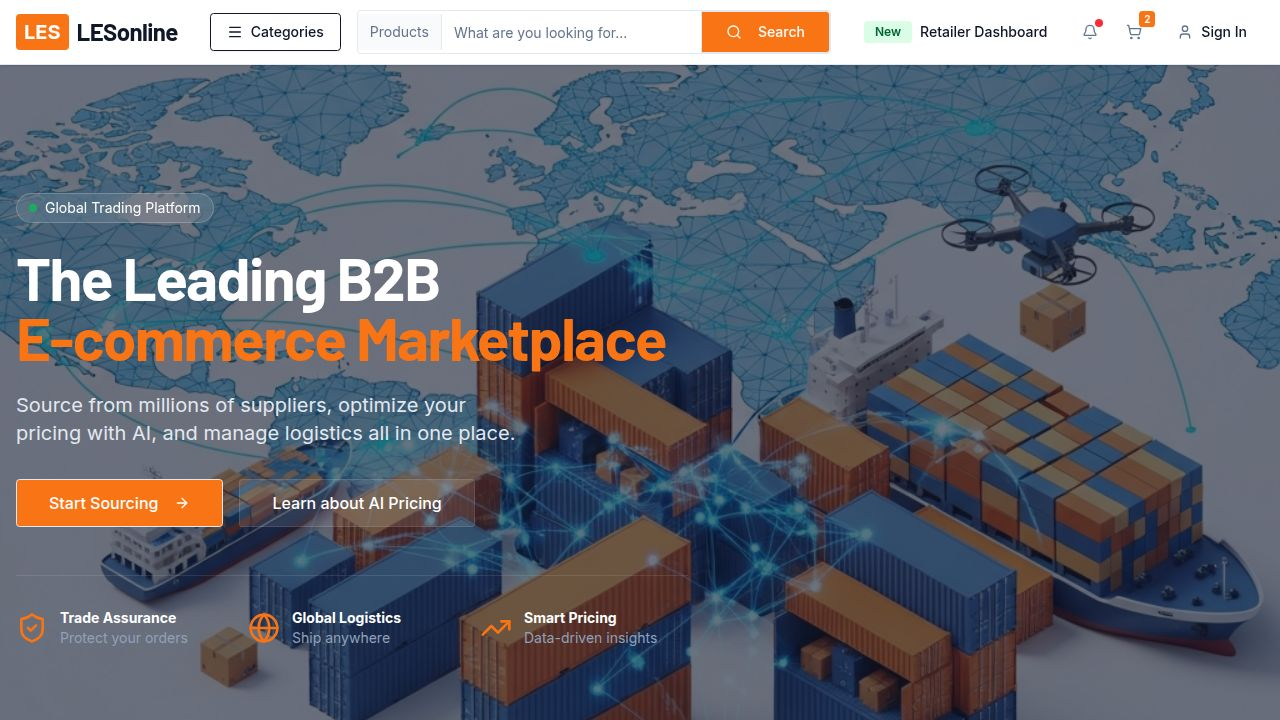
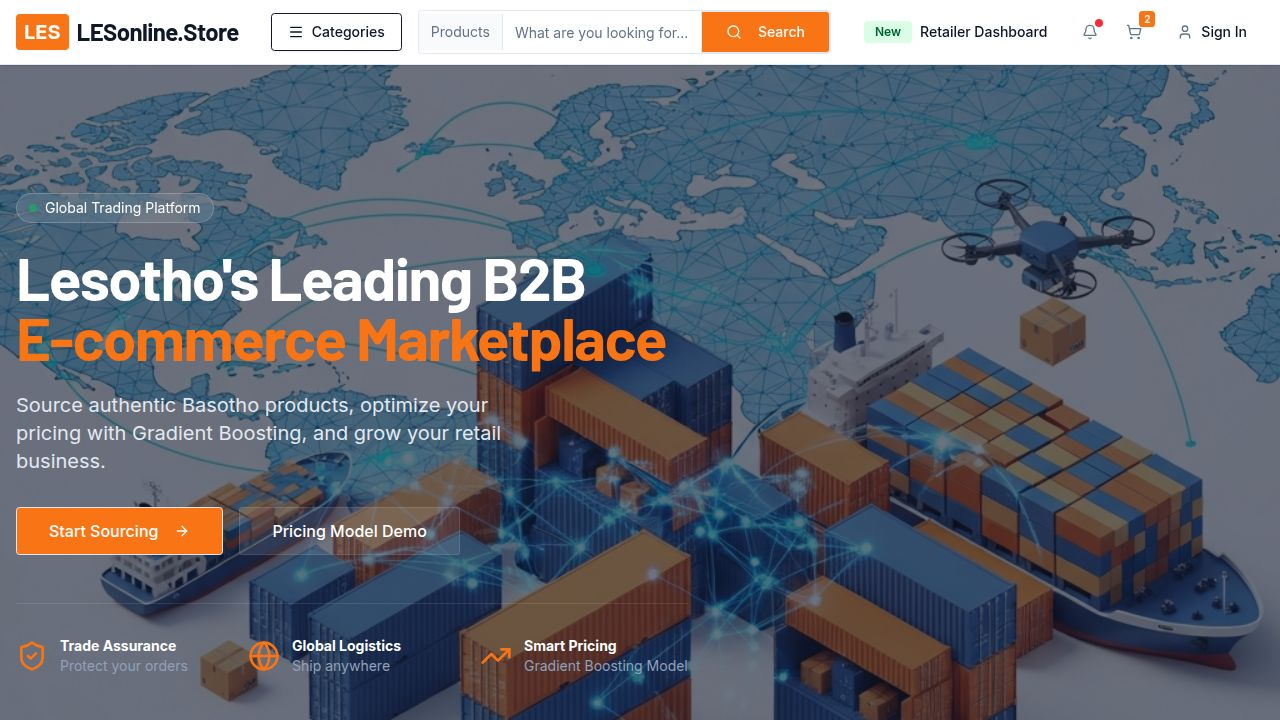
Rebrand platform to LESonline.Store and localize for Lesotho
Updates include changing currency to LSL (Maloti), localizing product catalog, and rebranding all references from "Alibaba Clone" to "LESonline.Store" to reflect the project's new focus.

Replit-Commit-Author: Agent
Replit-Commit-Session-Id: 9b57191a-77c6-4d40-badc-9a559e316d22
Replit-Commit-Checkpoint-Type: full_checkpoint
Replit-Commit-Event-Id: 57975063-6331-49f8-88c5-702df0c0d7d1
Replit-Commit-Screenshot-Url: https://storage.googleapis.com/screenshot-production-us-central1/2942abf8-38dd-4068-ad00-aa82bb5e78f8/9b57191a-77c6-4d40-badc-9a559e316d22/rZ2KoMJ
Replit-Helium-Checkpoint-Created: true

diff --git a/client/src/lib/mockData.ts b/client/src/lib/mockData.ts
@@ -33,115 +33,101 @@ export interface PriceRecommendation {
 export const PRODUCTS: Product[] = [
   {
     id: '1',
-    name: 'Industrial CNC Laser Cutting Machine 1000W Fiber',
-    price: 15000.00,
+    name: 'Basotho Blanket - Seanamarena',
+    price: 1250.00,
     moq: 1,
-    supplier: 'Shenzhen Laser Tech Co., Ltd',
+    supplier: 'Aranda Lesotho',
     rating: 4.8,
     reviews: 124,
-    image: machineImg,
-    category: 'Machinery',
+    image: 'https://images.unsplash.com/photo-1584917666458-9679237227d8?q=80&w=800',
+    category: 'Traditional Wear',
     specs: {
-      'Power': '1000W',
-      'Working Area': '1300*2500mm',
-      'Laser Type': 'Fiber Laser',
-      'Cooling Mode': 'Water Cooling'
+      'Material': '100% Virgin Wool',
+      'Size': '155cm x 165cm',
+      'Origin': 'Made in Lesotho',
+      'Brand': 'Seanamarena'
     },
-    stock: 5,
-    description: 'High precision fiber laser cutting machine suitable for carbon steel, stainless steel, and aluminum. Includes 2-year warranty and onsite installation support.'
+    stock: 45,
+    description: 'Authentic 100% wool Basotho blanket, the iconic Seanamarena brand. A symbol of status and tradition in the Mountain Kingdom.'
   },
   {
     id: '2',
-    name: 'Wireless Noise Cancelling Headphones Bluetooth 5.3',
-    price: 24.50,
-    moq: 50,
-    supplier: 'AudioMasters Electronics',
-    rating: 4.5,
-    reviews: 856,
-    image: headphonesImg,
-    category: 'Consumer Electronics',
+    name: 'Mokorotlo (Basotho Hat)',
+    price: 350.00,
+    moq: 5,
+    supplier: 'Thaba-Bosiu Crafts',
+    rating: 4.9,
+    reviews: 89,
+    image: 'https://images.unsplash.com/photo-1590005354167-6da97870c757?q=80&w=800',
+    category: 'Crafts',
     specs: {
-      'Battery Life': '40 Hours',
-      'Bluetooth': 'V5.3',
-      'Driver': '40mm Dynamic',
-      'Charging': 'USB-C'
+      'Material': 'Loti Grass',
+      'Handmade': 'Yes',
+      'Symbol': 'National Identity'
     },
-    stock: 2000,
-    description: 'Premium sound quality with active noise cancellation. Bulk customization available for branding.'
+    stock: 120,
+    description: 'Hand-woven conical straw hat, the national symbol of Lesotho, traditionally worn by the Basotho people.'
   },
   {
     id: '3',
-    name: '100% Cotton Canvas Fabric Rolls - 280GSM',
-    price: 3.20,
-    moq: 500,
-    supplier: 'Global Textiles Ltd',
-    rating: 4.9,
-    reviews: 42,
-    image: fabricImg,
-    category: 'Apparel & Fabric',
+    name: 'Maluti Mountain Coffee - 500g',
+    price: 185.00,
+    moq: 10,
+    supplier: 'Highland Roasters',
+    rating: 4.7,
+    reviews: 56,
+    image: 'https://images.unsplash.com/photo-1559056199-641a0ac8b55e?q=80&w=800',
+    category: 'Food & Beverage',
     specs: {
-      'Material': '100% Cotton',
-      'Weight': '280GSM',
-      'Width': '150cm',
-      'Technics': 'Woven'
+      'Weight': '500g',
+      'Roast': 'Medium-Dark',
+      'Altitude': '2000m+'
     },
-    stock: 10000,
-    description: 'Heavy duty cotton canvas suitable for bags, shoes, and home decor. Eco-friendly dyeing process.'
+    stock: 200,
+    description: 'Premium roasted coffee beans grown in the unique climate of the Lesotho highlands.'
   },
   {
     id: '4',
-    name: 'Smart Watch Series 8 Clone - Heart Rate Monitor',
-    price: 12.80,
-    moq: 100,
-    supplier: 'Shenzhen Smart Wearables',
-    rating: 4.2,
-    reviews: 2100,
-    image: smartwatchImg,
-    category: 'Consumer Electronics',
+    name: 'Lesotho Highlands Honey',
+    price: 95.00,
+    moq: 20,
+    supplier: 'Mountain Apiaries',
+    rating: 4.9,
+    reviews: 210,
+    image: 'https://images.unsplash.com/photo-1587049352846-4a222e784d38?q=80&w=800',
+    category: 'Food & Beverage',
     specs: {
-      'Screen': '1.9 inch IPS',
-      'Waterproof': 'IP67',
-      'Battery': '280mAh',
-      'App': 'FitPro'
+      'Type': 'Wild Blossom',
+      'Purity': '100% Raw',
+      'Location': 'Maluti Mountains'
     },
-    stock: 5000,
-    description: 'Best-selling smart watch with fitness tracking, sleep monitoring, and bluetooth calling.'
+    stock: 15,
+    description: 'Pure, organic wild blossom honey harvested from the pristine Maluti mountains.'
   }
 ];
 
 export const PRICE_RECOMMENDATIONS: PriceRecommendation[] = [
   {
     id: 'r1',
-    productId: '2',
-    productName: 'Wireless Noise Cancelling Headphones',
-    currentPrice: 24.50,
-    recommendedPrice: 26.95,
-    confidence: 0.92,
-    reason: 'Gradient Boosting Model: High demand detected in North American region. Residual positive.',
-    timestamp: '2 mins ago',
+    productId: '1',
+    productName: 'Basotho Blanket - Seanamarena',
+    currentPrice: 1250.00,
+    recommendedPrice: 1325.00,
+    confidence: 0.94,
+    reason: 'Gradient Boosting: High seasonal demand residual. Residual 1 (Demand) is high.',
+    timestamp: 'Just now',
     trend: 'up'
   },
   {
     id: 'r2',
     productId: '4',
-    productName: 'Smart Watch Series 8 Clone',
-    currentPrice: 12.80,
-    recommendedPrice: 11.50,
-    confidence: 0.85,
-    reason: 'Gradient Boosting Model: Market saturation increasing. Negative residual adjustment.',
-    timestamp: '15 mins ago',
+    productName: 'Lesotho Highlands Honey',
+    currentPrice: 95.00,
+    recommendedPrice: 89.50,
+    confidence: 0.88,
+    reason: 'Gradient Boosting: Seasonal surplus identified. Residual 2 (Inventory) driving price drop.',
+    timestamp: '10 mins ago',
     trend: 'down'
-  },
-  {
-    id: 'r3',
-    productId: '3',
-    productName: '100% Cotton Canvas Fabric',
-    currentPrice: 3.20,
-    recommendedPrice: 3.25,
-    confidence: 0.65,
-    reason: 'Gradient Boosting Model: Raw material costs rising. Slight positive residual.',
-    timestamp: '1 hour ago',
-    trend: 'stable'
   }
 ];
 

diff --git a/client/src/components/Hero.tsx b/client/src/components/Hero.tsx
@@ -15,18 +15,17 @@ export function Hero() {
       
       <div className="container relative z-10 mx-auto px-4 py-16 md:py-24 lg:py-32">
         <div className="max-w-2xl">
-          <div className="inline-flex items-center rounded-full border border-white/20 bg-white/10 px-3 py-1 text-sm text-white backdrop-blur-md mb-6">
-            <span className="flex h-2 w-2 rounded-full bg-green-500 mr-2 animate-pulse"></span>
-            Global Trading Platform
-          </div>
+            <div className="bg-primary text-primary-foreground font-bold text-sm px-3 py-1 rounded-full mb-6">
+              Official Lesotho B2B Platform
+            </div>
           
           <h1 className="text-4xl md:text-5xl lg:text-6xl font-heading font-bold tracking-tight mb-6">
-            The Leading B2B <br/>
+            Lesotho's Leading B2B <br/>
             <span className="text-primary">E-commerce Marketplace</span>
           </h1>
           
           <p className="text-lg md:text-xl text-slate-200 mb-8 max-w-lg">
-            Source from millions of suppliers, optimize your pricing with AI, and manage logistics all in one place.
+            Source authentic Basotho products, optimize your pricing with Gradient Boosting, and grow your retail business.
           </p>
           
           <div className="flex flex-col sm:flex-row gap-4">
@@ -35,7 +34,7 @@ export function Hero() {
               <ArrowRight className="ml-2 h-4 w-4" />
             </Button>
             <Button size="lg" variant="secondary" className="text-base h-12 px-8 bg-white/10 text-white hover:bg-white/20 border-white/10 border">
-              Learn about AI Pricing
+              Pricing Model Demo
             </Button>
           </div>
 
@@ -57,8 +56,8 @@ export function Hero() {
             <div className="flex items-center gap-3">
               <TrendingUp className="h-8 w-8 text-primary" />
               <div className="text-sm">
-                <div className="font-bold">Smart Pricing</div>
-                <div className="text-slate-400">Data-driven insights</div>
+                <div className="font-bold text-white">Smart Pricing</div>
+                <div className="text-slate-400">Gradient Boosting Model</div>
               </div>
             </div>
           </div>

diff --git a/client/src/pages/Dashboard.tsx b/client/src/pages/Dashboard.tsx
@@ -17,7 +17,7 @@ export default function Dashboard() {
   const handleApplyPrice = (id: string, newPrice: number) => {
     toast({
       title: "Price Updated Successfully",
-      description: `Product price updated to $${newPrice.toFixed(2)} via Smart Pricing API.`,
+      description: `Product price updated to M${newPrice.toFixed(2)} via LESonline API.`,
     });
     // Remove from list to simulate applied
     setRecommendations(prev => prev.filter(r => r.id !== id));
@@ -61,11 +61,11 @@ export default function Dashboard() {
         <div className="grid grid-cols-1 md:grid-cols-2 lg:grid-cols-4 gap-4 mb-8">
           <Card>
             <CardHeader className="flex flex-row items-center justify-between space-y-0 pb-2">
-              <CardTitle className="text-sm font-medium">Total Revenue</CardTitle>
+              <CardTitle className="text-sm font-medium">Total Revenue (LSL)</CardTitle>
               <DollarSign className="h-4 w-4 text-muted-foreground" />
             </CardHeader>
             <CardContent>
-              <div className="text-2xl font-bold">$45,231.89</div>
+              <div className="text-2xl font-bold">M45,231.89</div>
               <p className="text-xs text-muted-foreground">+20.1% from last month</p>
             </CardContent>
           </Card>
@@ -120,7 +120,7 @@ export default function Dashboard() {
                     </defs>
                     <CartesianGrid strokeDasharray="3 3" vertical={false} stroke="hsl(var(--border))" />
                     <XAxis dataKey="name" stroke="hsl(var(--muted-foreground))" fontSize={12} tickLine={false} axisLine={false} />
-                    <YAxis stroke="hsl(var(--muted-foreground))" fontSize={12} tickLine={false} axisLine={false} tickFormatter={(value) => `$${value}`} />
+                    <YAxis stroke="hsl(var(--muted-foreground))" fontSize={12} tickLine={false} axisLine={false} tickFormatter={(value) => `M${value}`} />
                     <Tooltip 
                       contentStyle={{ backgroundColor: 'hsl(var(--card))', borderRadius: '8px', border: '1px solid hsl(var(--border))' }}
                       itemStyle={{ color: 'hsl(var(--foreground))' }}
@@ -197,12 +197,12 @@ export default function Dashboard() {
                          <div className="grid grid-cols-2 gap-4 mb-3">
                             <div className="bg-slate-100 rounded p-2 text-center">
                               <div className="text-[10px] text-muted-foreground uppercase tracking-wider">Current</div>
-                              <div className="font-mono font-medium">${rec.currentPrice.toFixed(2)}</div>
+                              <div className="font-mono font-medium">M{rec.currentPrice.toFixed(2)}</div>
                             </div>
                             <div className="bg-primary/10 rounded p-2 text-center relative overflow-hidden border border-primary/20">
                               <div className="text-[10px] text-primary uppercase tracking-wider font-bold">Suggested</div>
                               <div className="font-mono font-bold text-primary flex items-center justify-center gap-1">
-                                ${rec.recommendedPrice.toFixed(2)}
+                                M{rec.recommendedPrice.toFixed(2)}
                                 {rec.trend === 'up' && <ArrowUp className="h-3 w-3" />}
                                 {rec.trend === 'down' && <ArrowDown className="h-3 w-3" />}
                                 {rec.trend === 'stable' && <Minus className="h-3 w-3" />}

diff --git a/client/index.html b/client/index.html
@@ -4,14 +4,14 @@
     <meta charset="UTF-8" />
     <meta name="viewport" content="width=device-width, initial-scale=1.0, maximum-scale=1" />
 
-    <meta property="og:title" content="LESonline.Store - Global B2B Marketplace" />
-    <meta property="og:description" content="The leading B2B ecommerce platform for global trade. Source products, manage orders, and optimize pricing with AI." />
+    <meta property="og:title" content="LESonline.Store - Lesotho B2B Marketplace" />
+    <meta property="og:description" content="Official B2B ecommerce platform for Lesotho. Source local products and optimize pricing with Gradient Boosting." />
     <meta property="og:type" content="website" />
     <meta property="og:image" content="/hero-banner.png" />
     <meta name="twitter:card" content="summary_large_image" />
     <meta name="twitter:site" content="@replit" />
-    <meta name="twitter:title" content="LESonline.Store - Global B2B Marketplace" />
-    <meta name="twitter:description" content="The leading B2B ecommerce platform for global trade." />
+    <meta name="twitter:title" content="LESonline.Store - Lesotho B2B Marketplace" />
+    <meta name="twitter:description" content="Official B2B ecommerce platform for Lesotho. Featuring Gradient Boosting pricing." />
     <meta name="twitter:image" content="/hero-banner.png" />
 
     <link rel="icon" type="image/png" href="/favicon.png" />

diff --git a/client/src/pages/Cart.tsx b/client/src/pages/Cart.tsx
@@ -79,7 +79,7 @@ export default function Cart() {
                            <span className="text-xs text-muted-foreground">Min: {item.product.moq}</span>
                         </div>
                         <div className="font-bold text-lg">
-                          ${(item.product.price * item.quantity).toFixed(2)}
+                          M{(item.product.price * item.quantity).toFixed(2)}
                         </div>
                       </div>
                     </div>
@@ -98,18 +98,18 @@ export default function Cart() {
               <CardContent className="p-6 space-y-4">
                 <div className="flex justify-between text-sm">
                   <span className="text-muted-foreground">Subtotal</span>
-                  <span className="font-medium">${subtotal.toFixed(2)}</span>
+                  <span className="font-medium">M{subtotal.toFixed(2)}</span>
                 </div>
                 <div className="flex justify-between text-sm">
                   <span className="text-muted-foreground">Shipping (Est.)</span>
-                  <span className="font-medium">${shipping.toFixed(2)}</span>
+                  <span className="font-medium">M{shipping.toFixed(2)}</span>
                 </div>
                 
                 <Separator />
                 
                 <div className="flex justify-between text-lg font-bold">
                   <span>Total</span>
-                  <span className="text-primary">${total.toFixed(2)}</span>
+                  <span className="text-primary">M{total.toFixed(2)}</span>
                 </div>
 
                 <div className="bg-orange-50 p-3 rounded text-xs text-orange-800 flex gap-2 items-start">

diff --git a/client/src/pages/Home.tsx b/client/src/pages/Home.tsx
@@ -37,13 +37,13 @@ export default function Home() {
         {/* Categories Banner */}
         <div className="mt-16 grid md:grid-cols-2 gap-6">
           <div className="bg-slate-100 rounded-lg p-8 flex flex-col justify-center">
-            <h3 className="text-2xl font-bold font-heading mb-2">Request for Quotation</h3>
-            <p className="text-muted-foreground mb-6">One request, multiple quotes. Get the best deal.</p>
+            <h3 className="text-2xl font-bold font-heading mb-2">Request for Quotation (RFQ)</h3>
+            <p className="text-muted-foreground mb-6">Connect with Lesotho-based manufacturers and suppliers directly.</p>
             <Button className="w-fit">Post Request</Button>
           </div>
           <div className="bg-orange-50 rounded-lg p-8 flex flex-col justify-center border border-orange-100">
-            <h3 className="text-2xl font-bold font-heading mb-2 text-orange-900">Trade Assurance</h3>
-            <p className="text-orange-800/80 mb-6">Protect your orders from payment to delivery.</p>
+            <h3 className="text-2xl font-bold font-heading mb-2 text-orange-900">Lesotho Trade Assurance</h3>
+            <p className="text-orange-800/80 mb-6">Protect your local and regional orders from payment to delivery.</p>
             <Button variant="outline" className="w-fit border-orange-200 text-orange-700 hover:bg-orange-100 hover:text-orange-900">Learn More</Button>
           </div>
         </div>

diff --git a/client/src/components/Navbar.tsx b/client/src/components/Navbar.tsx
@@ -13,11 +13,11 @@ export function Navbar() {
         {/* Logo */}
         <Link href="/">
           <a className="flex items-center gap-2 mr-4 cursor-pointer">
-            <div className="bg-primary text-primary-foreground font-bold text-xl px-2 py-1 rounded">
-              LES
+            <div className="bg-primary text-primary-foreground font-bold text-lg px-2 py-1 rounded">
+              LSO
             </div>
             <span className="font-heading font-bold text-2xl tracking-tight hidden sm:block text-foreground">
-              LESonline
+              LESonline.Store
             </span>
           </a>
         </Link>

diff --git a/client/src/components/ProductCard.tsx b/client/src/components/ProductCard.tsx
@@ -39,7 +39,7 @@ export function ProductCard({ product }: ProductCardProps) {
           
           <div className="mb-2">
             <span className="text-lg font-bold text-foreground">
-              ${product.price.toFixed(2)}
+              M{product.price.toFixed(2)}
             </span>
             <span className="text-xs text-muted-foreground ml-1">/ piece</span>
           </div>

diff --git a/client/src/pages/ProductDetails.tsx b/client/src/pages/ProductDetails.tsx
@@ -66,7 +66,7 @@ export default function ProductDetails() {
              <div className="bg-slate-50 p-4 rounded-lg border mb-6">
                 <div className="mb-4">
                    <div className="text-sm text-muted-foreground mb-1">Price</div>
-                   <div className="text-3xl font-bold text-primary">${product.price.toFixed(2)} <span className="text-sm font-normal text-slate-500">/ piece</span></div>
+                   <div className="text-3xl font-bold text-primary">M{product.price.toFixed(2)} <span className="text-sm font-normal text-slate-500">/ piece</span></div>
                 </div>
                 
                 <div className="grid grid-cols-2 gap-y-2 text-sm">